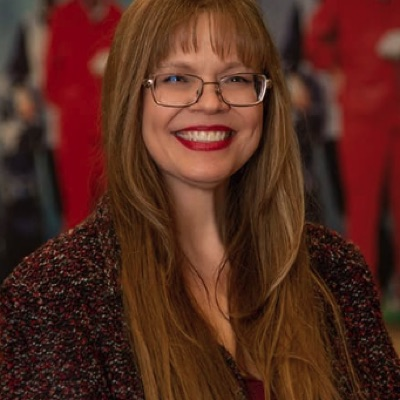
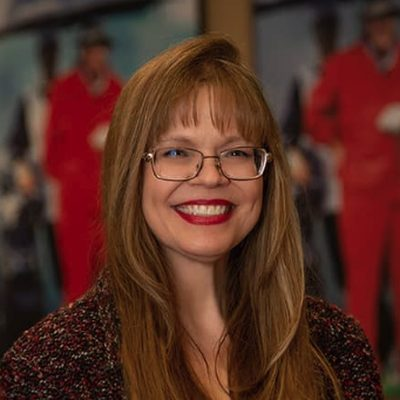
Tune 18 headshots to Jim's named list, and add a guard against face swaps
Jim named 14 photos cutting off the top of the head and 4 where the subject read
too small. All 18 applied and all 18 checked against their previous version by eye
before commit.

Two dials per photo in FRAME_TUNE, keyed by photo stem because the 2023 studio
batch is filed by surname:
  face    target face height as a share of the crop, lower is wider
  centre  where the face centre sits, higher leaves more room above the head

The dials are not interchangeable and that matters here. Eight of the fourteen
"zoom out" sources are already cropped to the full width of the file, so there is
no zoom left to give: their face fraction is identical before and after. The crown
came back purely from sliding the window up. Vision's face box runs forehead to
chin and excludes hair, so headroom is what protects the crown, not zoom.

THE GUARD, which caught a real face swap before it shipped. Gene Miller's file is
miller.jpg and the source folder holds three Millers. Name matching alone scored
Dave Miller and Bryan Miller as well as the right one, and the newest-first tie
break preferred Dave. Re-cropping would have put a stranger on Gene's card.

So source selection for a re-tune now compares the FACE, not the filename and not
the frame. Measured distances:

  same person   22, 59, 60, 98, 164   (and 301, see below)
  wrong person  400 Bryan Miller, 507 Dave Miller

Threshold sits at 250, which is 86 above the worst real match and 150 below the
[…]

diff --git a/tools/recrop-headshots.py b/tools/recrop-headshots.py
@@ -74,6 +74,45 @@ SRC_EXT = {".jpg", ".jpeg", ".png", ".heic", ".heif", ".webp", ".tif", ".tiff", 
 TARGET_FACE = 0.40      # face height as a share of the finished square
 FACE_CENTRE_V = 0.44    # where the face centre sits, top to bottom. Leaves headroom
 
+# ------------------------------------------------------- per photo tuning
+#
+# Jim reviewed the whole roster on Aug 13 2026 and named these by hand. Run with
+# --tune to apply them. Keyed by PHOTO FILE STEM, not by roster slug, because the
+# 2023 studio batch is filed by surname: Gene Miller is miller.jpg.
+#
+#   face    target face height as a share of the crop. LOWER is a wider shot
+#   centre  where the face centre sits top to bottom. HIGHER leaves more room
+#           above the head, which is the actual fix for a clipped crown
+#
+# Both dials matter and they are not interchangeable. Eight of the fourteen "zoom
+# out" sources are already cropped to the full width of the file, so there is no
+# zoom left to give. On those the crown is recovered by sliding the window up,
+# which is what centre does. Vision's face box runs forehead to chin and excludes
+# hair, so the crown always sits above the box and headroom is what protects it.
+FRAME_TUNE = {
+    # Top of the head was cut. Wider where the source allows, more headroom always.
+    "katie-robinson":     {"face": 0.34, "centre": 0.52},
+    "todd-leonard":       {"face": 0.34, "centre": 0.52},
+    "mary-fina":          {"face": 0.34, "centre": 0.52},
+    "domenic-provenzano": {"face": 0.34, "centre": 0.52},
+    "crystal-daniel":     {"face": 0.34, "centre": 0.52},
+    "kristina-karoll":    {"face": 0.34, "centre": 0.52},
+    "chelsea-pariseau":   {"face": 0.34, "centre": 0.52},
+    "anai-romero":        {"face": 0.34, "centre": 0.52},
+    "stromme":            {"face": 0.34, "centre": 0.52},
+    "miller":             {"face": 0.34, "centre": 0.52},
+    "howe":               {"face": 0.34, "centre": 0.52},
+    "jeannette-walker":   {"face": 0.34, "centre": 0.52},
+    "james-hinckley":     {"face": 0.34, "centre": 0.52},
+    "todd-keefer":        {"face": 0.34, "centre": 0.52},
+
+    # Face read too small in the grid. Tighter crop, standard headroom.
+    "kevin-paluch":       {"face": 0.47, "centre": 0.45},
+    "spittle":            {"face": 0.47, "centre": 0.45},
+    "han":                {"face": 0.47, "centre": 0.45},
+    "darville":           {"face": 0.47, "centre": 0.45},
+}
+
 MIN_FACE = 0.26         # below this the subject is not featured
 MAX_FACE = 0.58         # above this it is uncomfortably tight
 EDGE_PAD = 6            # px. face box nearer than this to an edge counts as clipped
@@ -90,6 +129,33 @@ MAX_OFF_CENTRE = 0.14   # horizontal drift from the middle, as a share of width
 OK_FACE = (0.30, 0.55)
 OK_FACE_MAXED = 0.72   # ceiling once we are already as wide as the source allows
 OK_OFF_CENTRE = 0.10
+
+# Hamming distance out of 1024 between the FACE in the repo and the face in a
+# candidate source, see face_print. Measured, not guessed.
+#
+# Same person, verified by eye:      22, 59, 60, 98, 164
+# Different person, same surname:    400 (Bryan Miller), 507 (Dave Miller)
+#
+# miller.jpg is Gene Miller and the folder holds three Millers, so this is the
+# case that decides the number. 250 sits 86 above the worst real match and 150
+# below the nearest wrong one. Raising it toward 400 is how you put Dave Miller's
+# face on Gene Miller's card.
+SAME_FACE_MAX = 250
+
+# Sources confirmed BY EYE, for the cases where the face hash is too strict.
+#
+# Keyed by photo stem, valued by the exact source filename. Checked one at a time
+# by opening both images and comparing them, not by nudging SAME_FACE_MAX until
+# the number went green. Raising the threshold to admit these would also admit
+# Dave Miller at 400, which is the whole thing this guard exists to stop.
+#
+#   domenic-provenzano  distance 301. Same photo beyond any doubt: same grey
+#     jacket, same glasses, same hedge and mountain background. The hash misfires
+#     because the file in the repo is a tight face crop out of a 3549x4968
+#     original, so the two faces differ in sharpness more than in shape.
+CONFIRMED_SOURCE = {
+    "domenic-provenzano": "Domenic Provenzano.jpg",
+}
 
 
 def slug(s):
@@ -194,19 +260,23 @@ def normalized(path):
     return im, tmp.name
 
 
-def crop_to_face(im, face):
-    """Square crop placed on the face, clamped inside the image."""
+def crop_to_face(im, face, target=TARGET_FACE, centre=FACE_CENTRE_V):
+    """Square crop placed on the face, clamped inside the image.
+
+    target and centre come from FRAME_TUNE when a photo has been hand tuned,
+    otherwise from the module defaults.
+    """
     W, H = im.size
     fx, fy, fw, fh = face["x"], face["y"], face["w"], face["h"]
 
-    S = fh / TARGET_FACE
+    S = fh / target
     S = min(S, float(min(W, H)))          # never invent pixels outside the frame
     S = max(S, 1.0)
 
     cx = fx + fw / 2.0
     cy = fy + fh / 2.0
     left = cx - S / 2.0
-    top = cy - FACE_CENTRE_V * S
+    top = cy - centre * S
 
     # Slide inside the frame rather than shrinking, so the face stays the size we
     # asked for even when the subject stands near an edge.
@@ -217,6 +287,99 @@ def crop_to_face(im, face):
            int(round(left + S)), int(round(top + S)))
     maxed = S >= float(min(W, H)) - 1.0      # already as wide as the source allows
     return im.crop(box), S, maxed
+
+
+def ahash(path, n=16):
+    """Average hash. Cheap, and enough to tell one shoot from another."""
+    im = Image.open(path).convert("L").resize((n, n), Image.LANCZOS)
+    px = list(im.getdata())
+    avg = sum(px) / float(len(px))
+    return [1 if v > avg else 0 for v in px]
+
+
+def hamming(a, b):
+    return sum(1 for x, y in zip(a, b) if x != y)
+
+
+def face_print(path):
+    """Hash of just the FACE, normalised, so framing does not enter into it.
+
+    The first attempt at this hashed the whole frame and was measuring the wrong
+    thing. Files that had already been through the face aware re-crop matched
+    their source at distance 0, and files still carrying the ORIGINAL centred crop
+    scored 60 to 120 against the very same photo, purely because the two crops
+    frame differently. That is a framing signal, not an identity signal.
+
+    Cutting both sides down to the detected face box removes framing from the
+    comparison entirely. Same person in the same shot matches tightly whatever the
+    crop around them was.
+    """
+    tmp = None
+    try:
+        im, tmp = normalized(path)
+    except Exception:
+        return None
+    try:
+        det = facefind([tmp]).get(tmp)
+        if not det or not det[2]:
+            return None
+        f = det[2][0]
+        # a little context around the box, so hair and jaw line count too
+        pad = 0.18 * f["h"]
+        box = (max(0, int(f["x"] - pad)), max(0, int(f["y"] - pad)),
+               min(im.width, int(f["x"] + f["w"] + pad)),
+               min(im.height, int(f["y"] + f["h"] + pad)))
+        if box[2] - box[0] < 8 or box[3] - box[1] < 8:
+            return None
+        face = im.crop(box).convert("L").resize((32, 32), Image.LANCZOS)
+        px = list(face.getdata())
+        avg = sum(px) / float(len(px))
+        return [1 if v > avg else 0 for v in px]
+    finally:
+        im.close()
+        if tmp and os.path.exists(tmp):
+            os.unlink(tmp)
+
+
+def pick_matching_source(stem, cands, existing, verbose=False):
+    """Of several same surname candidates, the one showing the SAME FACE.
+
+    Re-tuning an existing photo must not change WHICH photo it is. Name matching
+    alone cannot promise that. Gene Miller's file is miller.jpg, and the sources
+    on disk include both a 2023 studio frame of him and a completely different
+    person's "Dave Miller.jpg". Scoring on the surname picks either, and the
+    newest-first tie break picks Dave.
+
+    Returns (name, path, distance), or (None, None, closest) when nothing is close
+    enough, in which case the caller leaves the photo alone and says so.
+    """
+    if stem in CONFIRMED_SOURCE:
+        wanted = CONFIRMED_SOURCE[stem]
+        for src_name, src in cands:
+            if src_name == wanted:
+                return src_name, src, "eye"
+        return None, None, "confirmed source %r is not on disk" % wanted
+
+    want = face_print(existing)
+    if want is None:
+        return None, None, None
+
+    scored = []
+    for src_name, src in cands:
+        got = face_print(src)
+        if got is None:
+            continue
+        scored.append((hamming(want, got), src_name, src))
+
+    scored.sort()
+    if verbose:
+        for d, n, _p in scored:
+            print("        candidate %-42s face distance %d" % (n[:42], d))
+    if not scored:
+        return None, None, None
+    if scored[0][0] > SAME_FACE_MAX:
+        return None, None, scored[0][0]
+    return scored[0][1], scored[0][2], scored[0][0]
 
 
 def build_source_index():
@@ -303,10 +466,107 @@ def find_sources(stem, name, index):
     return [(fn, path) for _, fn, path in top], note
 
 
+def tune(dry_run, only):
+    """Apply FRAME_TUNE to the photos Jim named. Same photo, new framing."""
+    stems = [s for s in FRAME_TUNE if not only or s in set(only)]
+    index = build_source_index()
+    names = roster_names()
+    skip = excluded_slugs()
+
+    print("Tuning %d photo(s)%s\n" % (len(stems), " (dry run)" if dry_run else ""))
+    print("%-22s %-34s %-5s %-13s %s"
+          % ("PHOTO", "SOURCE", "MATCH", "FACE WAS", "FACE NOW"))
+    print("-" * 96)
+
+    done, refused = [], []
+    for stem in sorted(stems):
+        dest = os.path.join(OUT_DIR, stem + ".jpg")
+        if stem in skip or not os.path.exists(dest):
+            refused.append((stem, "no such photo in the repo"))
+            continue
+
+        before = facefind([dest]).get(dest)
+        before_frac = (before[2][0]["h"] / float(before[1])) if (before and before[2]) else None
+
+        cands, _note = find_sources(stem, names.get(stem, ""), index)
+        if not cands:
+            refused.append((stem, "no source file on disk"))
+            continue
+
+        src_name, src, dist = pick_matching_source(stem, cands, dest)
+        if not src:
+            refused.append((stem, "no source matches the current photo, closest %s. "
+                                  "NOT touched, this is the Gene Miller guard"
+                            % (dist if dist is not None else "n/a")))
+            continue
+
+        dials = FRAME_TUNE[stem]
+        tmp = None
+        try:
+            im, tmp = normalized(src)
+            det = facefind([tmp]).get(tmp)
+            if not det or not det[2]:
+                refused.append((stem, "no face in the source"))
+                continue
+            out, _S, maxed = crop_to_face(im, det[2][0],
+                                          target=dials["face"], centre=dials["centre"])
+            out = out.resize((SIZE, SIZE), Image.LANCZOS)
+
+            probe = tempfile.NamedTemporaryFile(suffix=".jpg", delete=False)
+            probe.close()
+            out.save(probe.name, "JPEG", quality=QUALITY, optimize=True)
+            pd = facefind([probe.name]).get(probe.name)
+
+            ok, why, frac = False, "no face in the result", None
+            if pd and pd[2]:
+                f = pd[2][0]
+                frac = f["h"] / float(SIZE)
+                hi = OK_FACE_MAXED if maxed else OK_FACE[1]
+                cx = (f["x"] + f["w"] / 2.0) / float(SIZE)
+                if f["y"] < EDGE_PAD or f["y"] + f["h"] > SIZE - EDGE_PAD:
+                    why = "result clips the face vertically"
+                elif frac < OK_FACE[0] or frac > hi:
+                    why = "result face %.0f%%, outside %d to %d" % (
+                        frac * 100, OK_FACE[0] * 100, hi * 100)
+                elif abs(cx - 0.5) > OK_OFF_CENTRE:
+                    why = "result face %.0f%% off centre" % (abs(cx - 0.5) * 100)
+                else:
+                    ok, why = True, ""
+
+            if not ok:
+                refused.append((stem, why))
+                os.unlink(probe.name)
+                continue
+
+            print("%-22s %-34s %-5s %-13s %.0f%%%s"
+                  % (stem, src_name[:34], dist,
+                     ("%.0f%%" % (before_frac * 100)) if before_frac else "no face",
+                     frac * 100, "  (source maxed)" if maxed else ""))
+            if dry_run:
+                os.unlink(probe.name)
+            else:
+                shutil.move(probe.name, dest)
+            done.append(stem)
+        finally:
+            im.close()
+            if tmp and os.path.exists(tmp):
+                os.unlink(tmp)
+
+    print("\n%s: %d" % ("would tune" if dry_run else "tuned", len(done)))
+    if refused:
+        print("\nLEFT ALONE (%d)" % len(refused))
+        for stem, why in refused:
+            print("    %-22s %s" % (stem, why))
+
+
 def main():
     audit_only = "--audit" in sys.argv
     dry_run = "--dry-run" in sys.argv
     only = [a for a in sys.argv[1:] if not a.startswith("-")]
+
+    if "--tune" in sys.argv:
+        tune(dry_run, only)
+        return
 
     skip = excluded_slugs()
     current = sorted(f for f in os.listdir(OUT_DIR) if f.endswith(".jpg"))
